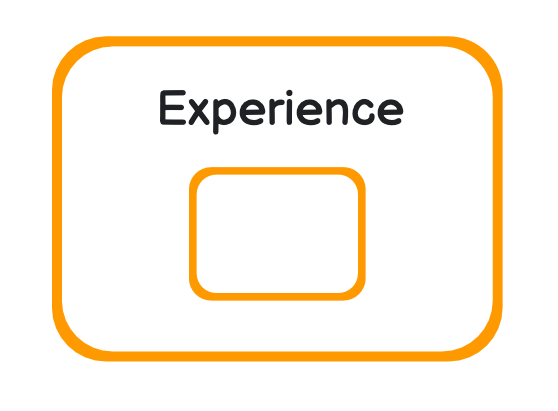
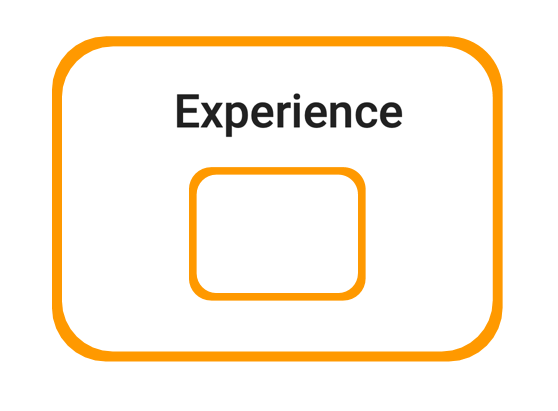
2024

Changed region(s): [[0.2742, 0.2044, 0.7312, 0.3504]]

diff --git a/index.html b/index.html
@@ -19,13 +19,13 @@
     </script>
     <meta charset="utf-8">
     <meta name="viewport" content="width=device-width, initial-scale=1, shrink-to-fit=no">
-    <meta name="description" content="Greetings, my name is Jenny and I bring ideas to life with code. Welcome in!">
-    <link rel="preconnect" href="https://fonts.gstatic.com">
-    <link href="https://fonts.googleapis.com/css2?family=Balsamiq+Sans&display=swap" rel="stylesheet">
+    <link rel="preconnect" href="https://fonts.googleapis.com">
+    <link rel="preconnect" href="https://fonts.gstatic.com" crossorigin>
+    <link href="https://fonts.googleapis.com/css2?family=Roboto:ital,wght@0,100;0,300;0,400;0,500;0,700;0,900;1,100;1,300;1,400;1,500;1,700;1,900&display=swap" rel="stylesheet">
     <link rel="stylesheet" href="https://maxcdn.bootstrapcdn.com/bootstrap/4.0.0-beta.3/css/bootstrap.min.css" integrity="sha384-Zug+QiDoJOrZ5t4lssLdxGhVrurbmBWopoEl+M6BdEfwnCJZtKxi1KgxUyJq13dy" crossorigin="anonymous">
     <link rel="stylesheet" href="https://use.fontawesome.com/releases/v5.1.0/css/all.css" integrity="sha384-lKuwvrZot6UHsBSfcMvOkWwlCMgc0TaWr+30HWe3a4ltaBwTZhyTEggF5tJv8tbt" crossorigin="anonymous">
     <link rel="stylesheet" type="text/css" href="index.css">
-    <link rel="icon" href="images/icon.ico"> 
+    <link rel="icon" href="favicon.ico"> 
     <link rel="apple-touch-icon" href="images/icon.ico">
     <link rel="canonical" href="https://www.jennyxin.com">
     <title>Jenny Xin</title>
@@ -53,7 +53,7 @@
 				</div>
 				<div class="row">
 					<div id="instr">
-						<h3>Use <i class="far fa-caret-square-left"></i> and <i class="far fa-caret-square-right"></i> to move. Press enter to shoot.</h3>
+						<h4>Use <i class="far fa-caret-square-left"></i> and <i class="far fa-caret-square-right"></i> to move. Press enter to shoot.</h4>
 					</div>
 				</div>
 				<div id="control" class="row">
@@ -89,6 +89,17 @@
       <h2>Experience</h2>
 			<div class="container">
         <div class="container-x xp">
+          <div class="card">
+            <div class="row no-gutters">
+              <img class="card-img-top col-4" src="images/affirm.jpeg" alt="affirm logo">
+              <h5 class="col-8"><br><strong>Affirm</strong><br><br><span class="details">Software Engineer<br>May 2022 - Present<br>San Francisco, CA/Remote</span></h5>
+            </div>
+            <div class="card-body">
+              <ul class="card-text">
+                <li>Building a platform to support the next generation of financial products for millions of users</li>
+              </ul>
+            </div>
+          </div>
           <div class="card">
             <div class="row no-gutters">
               <img class="card-img-top col-4" src="images/affirm.jpeg" alt="affirm logo">

diff --git a/index.css b/index.css
@@ -2,7 +2,7 @@ body, html {
   cursor: url("cursors/default.png"), auto;
   height: 100%;
   margin: 0;
-  font-family: 'Balsamiq Sans', serif;
+  font-family: "Roboto", sans-serif;
   color:#2f2f2f;
   background-color:#fffaf5;
 }
